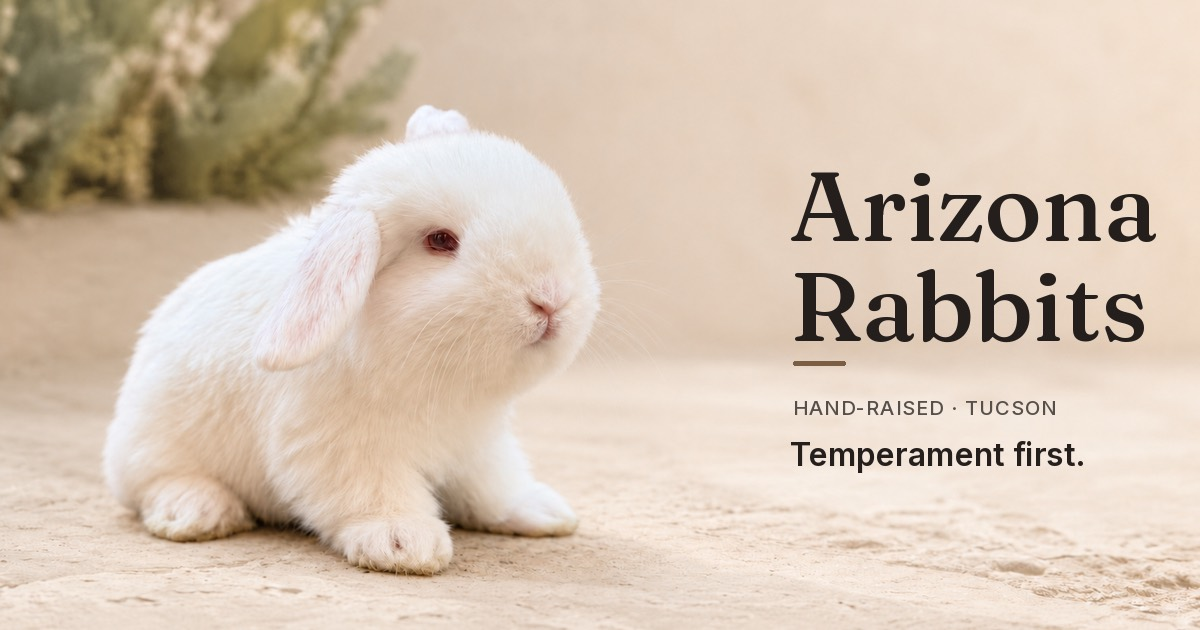
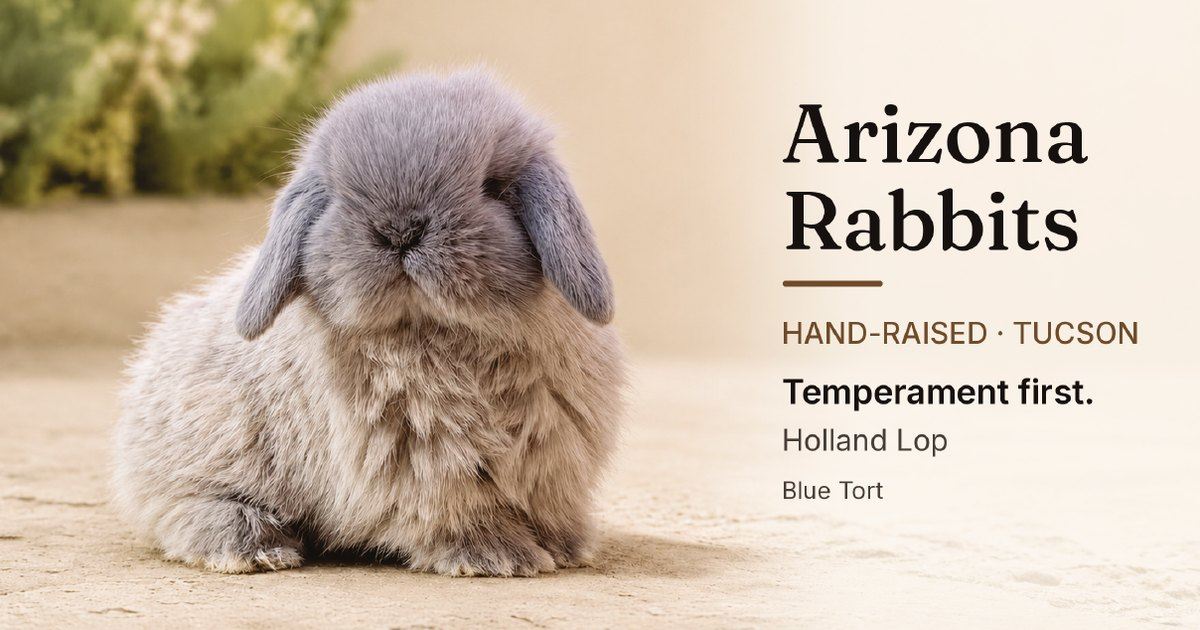
Round 193c: the countdown counts seconds, as a launch clock; the link picture is the business card
His words of 4:01pm: "Count the seconds as well for the timer", "a better execution for how the timer looks". Until 6:00 PM
the banner, each card, each listing and the sheet show a clock of three boxes, HH : MM : SS, labelled HRS MIN SEC (H MIN
SEG), ticking every second. His words of 4:17pm and 4:18pm: Marshmallow's link picture replaced by the front of his business
card (Blueberry). locktest taught the clock; planted faults caught; estest, validate, slim, cardmoney pass.

Claude-Session: https://claude.ai/code/session_01XcJvzKngN9DGdyGhdkoieX

diff --git a/es.html b/es.html
@@ -2887,6 +2887,14 @@ html.pick #nav .btn,html.pick .bunny .parts{display:none}
 .bopen-k{display:inline-flex;align-items:center;gap:5px;font-size:10.5px;font-weight:700;letter-spacing:.05em;text-transform:uppercase;color:var(--open);white-space:nowrap}
 .bopen-k svg.lk-ic{flex:none;width:13px;height:13px}
 .bopen-n{font-size:clamp(16px,4.7vw,21px);line-height:1.15;font-weight:700;color:var(--ink);white-space:nowrap}
+
+.lkclock{display:inline-flex;align-items:flex-start;gap:3px;margin:4px 0 2px;font-variant-numeric:tabular-nums;white-space:nowrap;color:var(--ink)}
+.lkc{display:inline-grid;justify-items:center;gap:3px}
+.lkc b{display:block;min-width:1.55em;padding:5px 5px 4px;border-radius:7px;background:var(--card,var(--paper));border:1px solid var(--open-line);font-size:clamp(17px,5vw,22px);line-height:1;font-weight:700;text-align:center;letter-spacing:.01em}
+.lkc small{font-size:8.5px;line-height:1;font-weight:700;letter-spacing:.08em;color:var(--open)}
+.lkclock>i{font-style:normal;font-weight:700;font-size:clamp(15px,4.4vw,19px);line-height:1;padding-top:6px;color:var(--ink-soft)}
+.soonbar .lkclock{margin:2px 0 0}.soonbar .lkc b{font-size:clamp(15px,4.4vw,19px);padding:4px 4px 3px}
+.gs-lock .lkc b{font-size:24px}
 .bopen-at{font-size:12px;color:var(--ink-soft)}
 
 :root{--lock-bg:#E6E0D7;--lock-ink:#655C54;--lock-line:#D2C9BD}
@@ -4158,9 +4166,10 @@ html[data-look="dim"] .viewer-foot::before{background:linear-gradient(to bottom,
   var when=(today?(ES?'Hoy':'Today'):((+m[3])+NB+MO[+m[2]-1]))+(ES?' a '+(h12===1?'la':'las')+NB:' at ')+hour;
   var mins=Math.ceil((t-Date.now())/60000), hh=Math.floor(mins/60), mm=mins%60;
   function n(x,one,many){ return x+NB+(x===1?one:many); }
-  var left=(hh&&!mm)?n(hh,ES?'hora':'hour',ES?'horas':'hours'):(hh?(hh+NB+'h'+NB+mm+NB+'min'):(mm+NB+'min'));
+  var sx=Math.max(0,Math.ceil((t-Date.now())/1000)), dd=function(v){ return (v<10?'0':'')+v; }, LB=ES?['H','MIN','SEG']:['HRS','MIN','SEC'];
+  var left='<span class="lkclock" aria-hidden="true" data-opens-left="'+A+'" data-opens-form="clock">'+[dd(Math.floor(sx/3600)),dd(Math.floor(sx%3600/60)),dd(sx%60)].map(function(x,i){ return '<span class="lkc"><b>'+x+'</b><small>'+LB[i]+'</small></span>'; }).join('<i>:</i>')+'</span>';   /* (Round 193c) the launch clock */
   var what=N===1?((ES?'Nuevo: ':'New: ')+ONE):(ES?(N+' '+(KIND||'conejos')+' nuevos'):(N+' new '+(KIND?KIND+'s':'rabbits')));
-  el.firstChild.innerHTML='<svg class="lk-ic" viewBox="0 0 24 24" fill="none" stroke="currentColor" stroke-width="2.4" stroke-linecap="round" stroke-linejoin="round" aria-hidden="true" focusable="false"><circle cx="12" cy="12" r="9"/><path d="M12 7v5l3 2"/></svg><span class="soonbar-what"><b>'+what+'</b><span>'+when+'</span></span><span class="soonbar-left"><small>'+(ES?'Abre en':'Opens in')+'</small><b data-opens-left="'+A+'" data-opens-form="bare">'+left+'</b></span><i class="soonbar-go" aria-hidden="true"></i>';
+  el.firstChild.innerHTML='<svg class="lk-ic" viewBox="0 0 24 24" fill="none" stroke="currentColor" stroke-width="2.4" stroke-linecap="round" stroke-linejoin="round" aria-hidden="true" focusable="false"><circle cx="12" cy="12" r="9"/><path d="M12 7v5l3 2"/></svg><span class="soonbar-what"><b>'+what+'</b><span>'+when+'</span></span><span class="soonbar-left"><small>'+(ES?'Abre en':'Opens in')+'</small>'+left+'</span><i class="soonbar-go" aria-hidden="true"></i>';
   el.hidden=false;
 })();
 </script>
@@ -7007,17 +7016,20 @@ html[data-look="dim"] .viewer-foot::before{background:linear-gradient(to bottom,
     if(form!=='full') return (ES?'en':'in')+LKNB+bare;
     if(ES) return (((h===1&&!m)||(!h&&m===1))?'falta ':'faltan ')+(h?n(h,'hora','horas'):'')+(h&&m?' y ':'')+(m?n(m,'minuto','minutos'):'');
     return (h?n(h,'hour','hours'):'')+(h&&m?', ':'')+(m?n(m,'minute','minutes'):'')+' left'; }
-  function lkCount(r,form,cls){ return '<b'+(cls?' class="'+cls+'"':'')+' data-opens-left="'+esc(addrOf(r))+'" data-opens-form="'+form+'">'+esc(opensLeft(r,form))+'</b>'; }
+  function lkHMS(left){ var x=Math.max(0,Math.ceil(left/1000)), h=Math.floor(x/3600), m=Math.floor(x%3600/60), z=x%60; function d(v){ return (v<10?'0':'')+v; } return [d(h),d(m),d(z)]; }
+  function lkClock(a,left){ var v=lkHMS(left), L=lkES()?['H','MIN','SEG']:['HRS','MIN','SEC'];
+    return '<span class="lkclock" aria-hidden="true" data-opens-left="'+esc(a)+'" data-opens-form="clock">'+v.map(function(x,i){ return '<span class="lkc"><b>'+x+'</b><small>'+L[i]+'</small></span>'; }).join('<i>:</i>')+'</span>'; }
+  function lkCount(r,form,cls){ if(form==='clock') return lkClock(addrOf(r),opensMs(r)-Date.now()); return '<b'+(cls?' class="'+cls+'"':'')+' data-opens-left="'+esc(addrOf(r))+'" data-opens-form="'+form+'">'+esc(opensLeft(r,form))+'</b>'; }
   function lkIn(){ return lkES()?'Abre en':'Opens in'; }
   function lockMark(r){ return opensDay(r,true)+LKNB+opensName(r,false); }
-  function lockNoteHTML(r){ return '<span class="bopen-k">'+LK_IC+lkIn()+'</span>'+lkCount(r,'bare','bopen-n')+
+  function lockNoteHTML(r){ return '<span class="bopen-k">'+LK_IC+lkIn()+'</span>'+lkCount(r,'clock','')+
     '<span class="bopen-at">'+esc(opensDay(r,true))+(lkES()?' a '+opensLas(r):' at ')+esc(opensName(r,false))+'</span>'; }
   function lockReadyHTML(r){ var ES=lkES(), one=gsOne(r);
-    return LK_IC+'<span class="vlock-t"><small>'+lkIn()+'</small>'+lkCount(r,'bare','')+
+    return LK_IC+'<span class="vlock-t"><small>'+lkIn()+'</small>'+lkCount(r,'clock','')+
       '<span>'+(ES?(one?'Comprar se abre ':'Reservar y Comprar se abren ')+esc(opensDay(r,false))+' a '+opensLas(r)
                   :(one?'Buy opens ':'Reserve and Buy open ')+esc(opensDay(r,false))+' at ')+esc(opensName(r,true))+'</span></span>'; }
   function lockSheetHTML(r){ var ES=lkES(), one=gsOne(r);
-    return '<p class="gs-lock-n"><small>'+LK_IC+lkIn()+'</small>'+lkCount(r,'bare','')+'</p>'+
+    return '<p class="gs-lock-n"><small>'+LK_IC+lkIn()+'</small>'+lkCount(r,'clock','')+'</p>'+
       '<p><b>'+esc(r.name)+(ES?(one?' se puede comprar ':' se puede reservar o comprar ')+esc(opensDay(r,false))+' desde '+opensLas(r)
                               :(one?' can be bought ':' can be reserved or bought ')+esc(opensDay(r,false))+' from ')+esc(opensName(r,true))+
         (ES?', hora de'+LKNB+'Arizona.':', Arizona'+LKNB+'time.')+'</b></p>'+
@@ -7044,11 +7056,14 @@ html[data-look="dim"] .viewer-foot::before{background:linear-gradient(to bottom,
     for(i=0;i<R.length;i++){ if(!R[i]||R[i].status!=='available') continue; t=opensMs(R[i]); if(!t) continue;
       if(t>now){ if(!next||t<next) next=t; } else if(t>lkBoot&&t>come) come=t; }
     els=document.querySelectorAll('[data-opens-left]');
-    for(i=0;i<els.length;i++){ r=lkRabbit(els[i].getAttribute('data-opens-left')); s=r?opensLeft(r,els[i].getAttribute('data-opens-form')||'in'):''; if(s&&els[i].textContent!==s) els[i].textContent=s; }
+    var clk=0;
+    for(i=0;i<els.length;i++){ r=lkRabbit(els[i].getAttribute('data-opens-left'));
+      if(els[i].getAttribute('data-opens-form')==='clock'){ clk=1; if(!r) continue; var v=lkHMS(opensMs(r)-now), bs=els[i].querySelectorAll('b'); if(opensMs(r)<=now) continue; for(var k=0;k<bs.length&&k<3;k++){ if(bs[k].textContent!==v[k]) bs[k].textContent=v[k]; } continue; }
+      s=r?opensLeft(r,els[i].getAttribute('data-opens-form')||'in'):''; if(s&&els[i].textContent!==s) els[i].textContent=s; }
     var sb=document.getElementById('soonBar'); if(sb&&!sb.hidden&&!next) sb.hidden=true;   /* the news banner goes with the last moment */
     clearTimeout(lkT);
     if(come) return opensCome(come);
-    if(next) lkT=setTimeout(opensTick,Math.max(250,Math.min(60000-(now%60000)+400,next-now+60)));
+    if(next) lkT=setTimeout(opensTick,clk?Math.max(50,Math.min(1000-(now%1000)+30,next-now+60)):Math.max(250,Math.min(60000-(now%60000)+400,next-now+60)));   /* (Round 193c) every second while a clock shows */
   }
   setTimeout(opensTick,0);
   document.addEventListener('visibilitychange',function(){ if(!document.hidden) opensTick(); });

diff --git a/index.html b/index.html
@@ -2656,6 +2656,14 @@ html.pick #nav .btn,html.pick .bunny .parts{display:none}
 .bopen-k{display:inline-flex;align-items:center;gap:5px;font-size:10.5px;font-weight:700;letter-spacing:.05em;text-transform:uppercase;color:var(--open);white-space:nowrap}
 .bopen-k svg.lk-ic{flex:none;width:13px;height:13px}
 .bopen-n{font-size:clamp(16px,4.7vw,21px);line-height:1.15;font-weight:700;color:var(--ink);white-space:nowrap}
+
+.lkclock{display:inline-flex;align-items:flex-start;gap:3px;margin:4px 0 2px;font-variant-numeric:tabular-nums;white-space:nowrap;color:var(--ink)}
+.lkc{display:inline-grid;justify-items:center;gap:3px}
+.lkc b{display:block;min-width:1.55em;padding:5px 5px 4px;border-radius:7px;background:var(--card,var(--paper));border:1px solid var(--open-line);font-size:clamp(17px,5vw,22px);line-height:1;font-weight:700;text-align:center;letter-spacing:.01em}
+.lkc small{font-size:8.5px;line-height:1;font-weight:700;letter-spacing:.08em;color:var(--open)}
+.lkclock>i{font-style:normal;font-weight:700;font-size:clamp(15px,4.4vw,19px);line-height:1;padding-top:6px;color:var(--ink-soft)}
+.soonbar .lkclock{margin:2px 0 0}.soonbar .lkc b{font-size:clamp(15px,4.4vw,19px);padding:4px 4px 3px}
+.gs-lock .lkc b{font-size:24px}
 .bopen-at{font-size:12px;color:var(--ink-soft)}
 
 :root{--lock-bg:#E6E0D7;--lock-ink:#655C54;--lock-line:#D2C9BD}
@@ -3927,9 +3935,10 @@ html[data-look="dim"] .viewer-foot::before{background:linear-gradient(to bottom,
   var when=(today?(ES?'Hoy':'Today'):((+m[3])+NB+MO[+m[2]-1]))+(ES?' a '+(h12===1?'la':'las')+NB:' at ')+hour;
   var mins=Math.ceil((t-Date.now())/60000), hh=Math.floor(mins/60), mm=mins%60;
   function n(x,one,many){ return x+NB+(x===1?one:many); }
-  var left=(hh&&!mm)?n(hh,ES?'hora':'hour',ES?'horas':'hours'):(hh?(hh+NB+'h'+NB+mm+NB+'min'):(mm+NB+'min'));
+  var sx=Math.max(0,Math.ceil((t-Date.now())/1000)), dd=function(v){ return (v<10?'0':'')+v; }, LB=ES?['H','MIN','SEG']:['HRS','MIN','SEC'];
+  var left='<span class="lkclock" aria-hidden="true" data-opens-left="'+A+'" data-opens-form="clock">'+[dd(Math.floor(sx/3600)),dd(Math.floor(sx%3600/60)),dd(sx%60)].map(function(x,i){ return '<span class="lkc"><b>'+x+'</b><small>'+LB[i]+'</small></span>'; }).join('<i>:</i>')+'</span>';   /* (Round 193c) the launch clock */
   var what=N===1?((ES?'Nuevo: ':'New: ')+ONE):(ES?(N+' '+(KIND||'conejos')+' nuevos'):(N+' new '+(KIND?KIND+'s':'rabbits')));
-  el.firstChild.innerHTML='<svg class="lk-ic" viewBox="0 0 24 24" fill="none" stroke="currentColor" stroke-width="2.4" stroke-linecap="round" stroke-linejoin="round" aria-hidden="true" focusable="false"><circle cx="12" cy="12" r="9"/><path d="M12 7v5l3 2"/></svg><span class="soonbar-what"><b>'+what+'</b><span>'+when+'</span></span><span class="soonbar-left"><small>'+(ES?'Abre en':'Opens in')+'</small><b data-opens-left="'+A+'" data-opens-form="bare">'+left+'</b></span><i class="soonbar-go" aria-hidden="true"></i>';
+  el.firstChild.innerHTML='<svg class="lk-ic" viewBox="0 0 24 24" fill="none" stroke="currentColor" stroke-width="2.4" stroke-linecap="round" stroke-linejoin="round" aria-hidden="true" focusable="false"><circle cx="12" cy="12" r="9"/><path d="M12 7v5l3 2"/></svg><span class="soonbar-what"><b>'+what+'</b><span>'+when+'</span></span><span class="soonbar-left"><small>'+(ES?'Abre en':'Opens in')+'</small>'+left+'</span><i class="soonbar-go" aria-hidden="true"></i>';
   el.hidden=false;
 })();
 </script>
@@ -6960,17 +6969,20 @@ html[data-look="dim"] .viewer-foot::before{background:linear-gradient(to bottom,
     if(form!=='full') return (ES?'en':'in')+LKNB+bare;
     if(ES) return (((h===1&&!m)||(!h&&m===1))?'falta ':'faltan ')+(h?n(h,'hora','horas'):'')+(h&&m?' y ':'')+(m?n(m,'minuto','minutos'):'');
     return (h?n(h,'hour','hours'):'')+(h&&m?', ':'')+(m?n(m,'minute','minutes'):'')+' left'; }
-  function lkCount(r,form,cls){ return '<b'+(cls?' class="'+cls+'"':'')+' data-opens-left="'+esc(addrOf(r))+'" data-opens-form="'+form+'">'+esc(opensLeft(r,form))+'</b>'; }
+  function lkHMS(left){ var x=Math.max(0,Math.ceil(left/1000)), h=Math.floor(x/3600), m=Math.floor(x%3600/60), z=x%60; function d(v){ return (v<10?'0':'')+v; } return [d(h),d(m),d(z)]; }
+  function lkClock(a,left){ var v=lkHMS(left), L=lkES()?['H','MIN','SEG']:['HRS','MIN','SEC'];
+    return '<span class="lkclock" aria-hidden="true" data-opens-left="'+esc(a)+'" data-opens-form="clock">'+v.map(function(x,i){ return '<span class="lkc"><b>'+x+'</b><small>'+L[i]+'</small></span>'; }).join('<i>:</i>')+'</span>'; }
+  function lkCount(r,form,cls){ if(form==='clock') return lkClock(addrOf(r),opensMs(r)-Date.now()); return '<b'+(cls?' class="'+cls+'"':'')+' data-opens-left="'+esc(addrOf(r))+'" data-opens-form="'+form+'">'+esc(opensLeft(r,form))+'</b>'; }
   function lkIn(){ return lkES()?'Abre en':'Opens in'; }
   function lockMark(r){ return opensDay(r,true)+LKNB+opensName(r,false); }
-  function lockNoteHTML(r){ return '<span class="bopen-k">'+LK_IC+lkIn()+'</span>'+lkCount(r,'bare','bopen-n')+
+  function lockNoteHTML(r){ return '<span class="bopen-k">'+LK_IC+lkIn()+'</span>'+lkCount(r,'clock','')+
     '<span class="bopen-at">'+esc(opensDay(r,true))+(lkES()?' a '+opensLas(r):' at ')+esc(opensName(r,false))+'</span>'; }
   function lockReadyHTML(r){ var ES=lkES(), one=gsOne(r);
-    return LK_IC+'<span class="vlock-t"><small>'+lkIn()+'</small>'+lkCount(r,'bare','')+
+    return LK_IC+'<span class="vlock-t"><small>'+lkIn()+'</small>'+lkCount(r,'clock','')+
       '<span>'+(ES?(one?'Comprar se abre ':'Reservar y Comprar se abren ')+esc(opensDay(r,false))+' a '+opensLas(r)
                   :(one?'Buy opens ':'Reserve and Buy open ')+esc(opensDay(r,false))+' at ')+esc(opensName(r,true))+'</span></span>'; }
   function lockSheetHTML(r){ var ES=lkES(), one=gsOne(r);
-    return '<p class="gs-lock-n"><small>'+LK_IC+lkIn()+'</small>'+lkCount(r,'bare','')+'</p>'+
+    return '<p class="gs-lock-n"><small>'+LK_IC+lkIn()+'</small>'+lkCount(r,'clock','')+'</p>'+
       '<p><b>'+esc(r.name)+(ES?(one?' se puede comprar ':' se puede reservar o comprar ')+esc(opensDay(r,false))+' desde '+opensLas(r)
                               :(one?' can be bought ':' can be reserved or bought ')+esc(opensDay(r,false))+' from ')+esc(opensName(r,true))+
         (ES?', hora de'+LKNB+'Arizona.':', Arizona'+LKNB+'time.')+'</b></p>'+
@@ -6997,11 +7009,14 @@ html[data-look="dim"] .viewer-foot::before{background:linear-gradient(to bottom,
     for(i=0;i<R.length;i++){ if(!R[i]||R[i].status!=='available') continue; t=opensMs(R[i]); if(!t) continue;
       if(t>now){ if(!next||t<next) next=t; } else if(t>lkBoot&&t>come) come=t; }
     els=document.querySelectorAll('[data-opens-left]');
-    for(i=0;i<els.length;i++){ r=lkRabbit(els[i].getAttribute('data-opens-left')); s=r?opensLeft(r,els[i].getAttribute('data-opens-form')||'in'):''; if(s&&els[i].textContent!==s) els[i].textContent=s; }
+    var clk=0;
+    for(i=0;i<els.length;i++){ r=lkRabbit(els[i].getAttribute('data-opens-left'));
+      if(els[i].getAttribute('data-opens-form')==='clock'){ clk=1; if(!r) continue; var v=lkHMS(opensMs(r)-now), bs=els[i].querySelectorAll('b'); if(opensMs(r)<=now) continue; for(var k=0;k<bs.length&&k<3;k++){ if(bs[k].textContent!==v[k]) bs[k].textContent=v[k]; } continue; }
+      s=r?opensLeft(r,els[i].getAttribute('data-opens-form')||'in'):''; if(s&&els[i].textContent!==s) els[i].textContent=s; }
     var sb=document.getElementById('soonBar'); if(sb&&!sb.hidden&&!next) sb.hidden=true;   /* the news banner goes with the last moment */
     clearTimeout(lkT);
     if(come) return opensCome(come);
-    if(next) lkT=setTimeout(opensTick,Math.max(250,Math.min(60000-(now%60000)+400,next-now+60)));
+    if(next) lkT=setTimeout(opensTick,clk?Math.max(50,Math.min(1000-(now%1000)+30,next-now+60)):Math.max(250,Math.min(60000-(now%60000)+400,next-now+60)));   /* (Round 193c) every second while a clock shows */
   }
   setTimeout(opensTick,0);
   document.addEventListener('visibilitychange',function(){ if(!document.hidden) opensTick(); });
